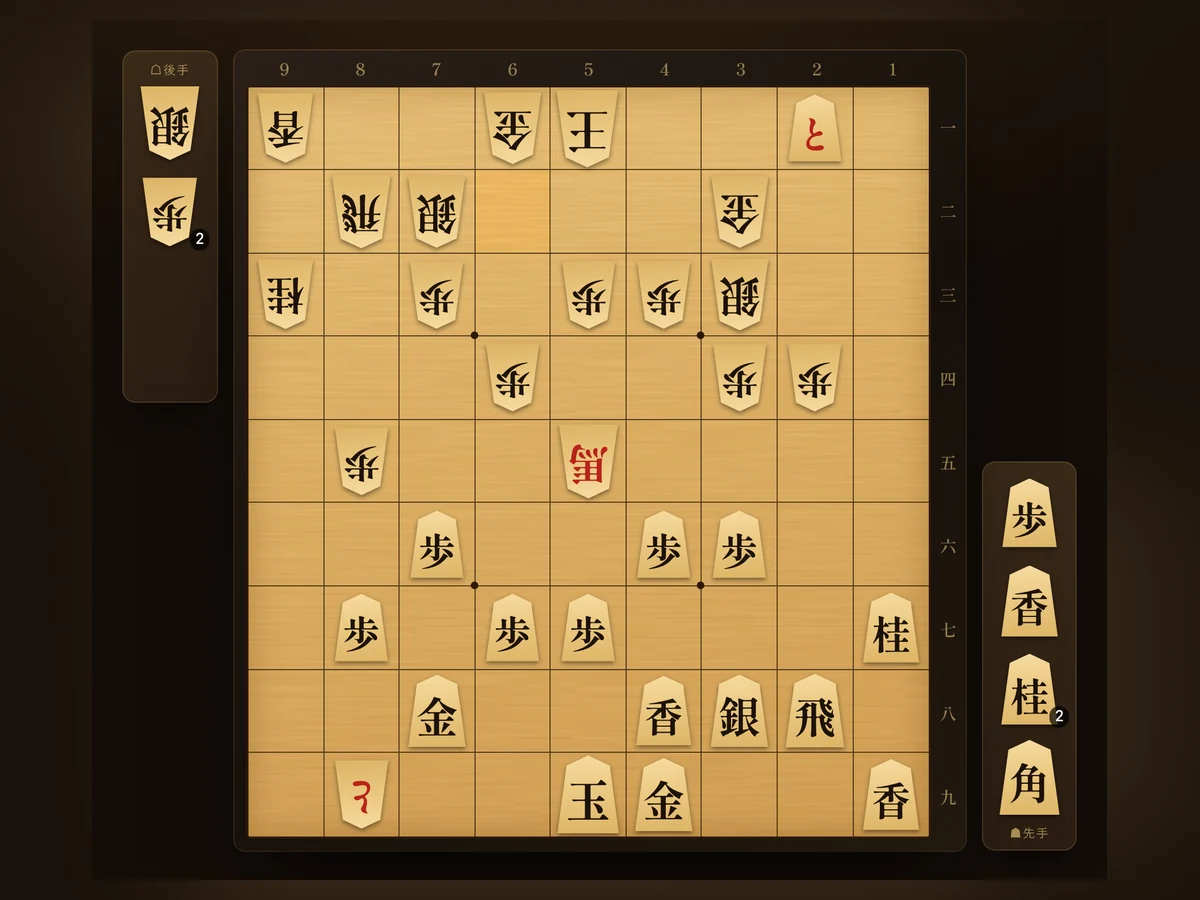
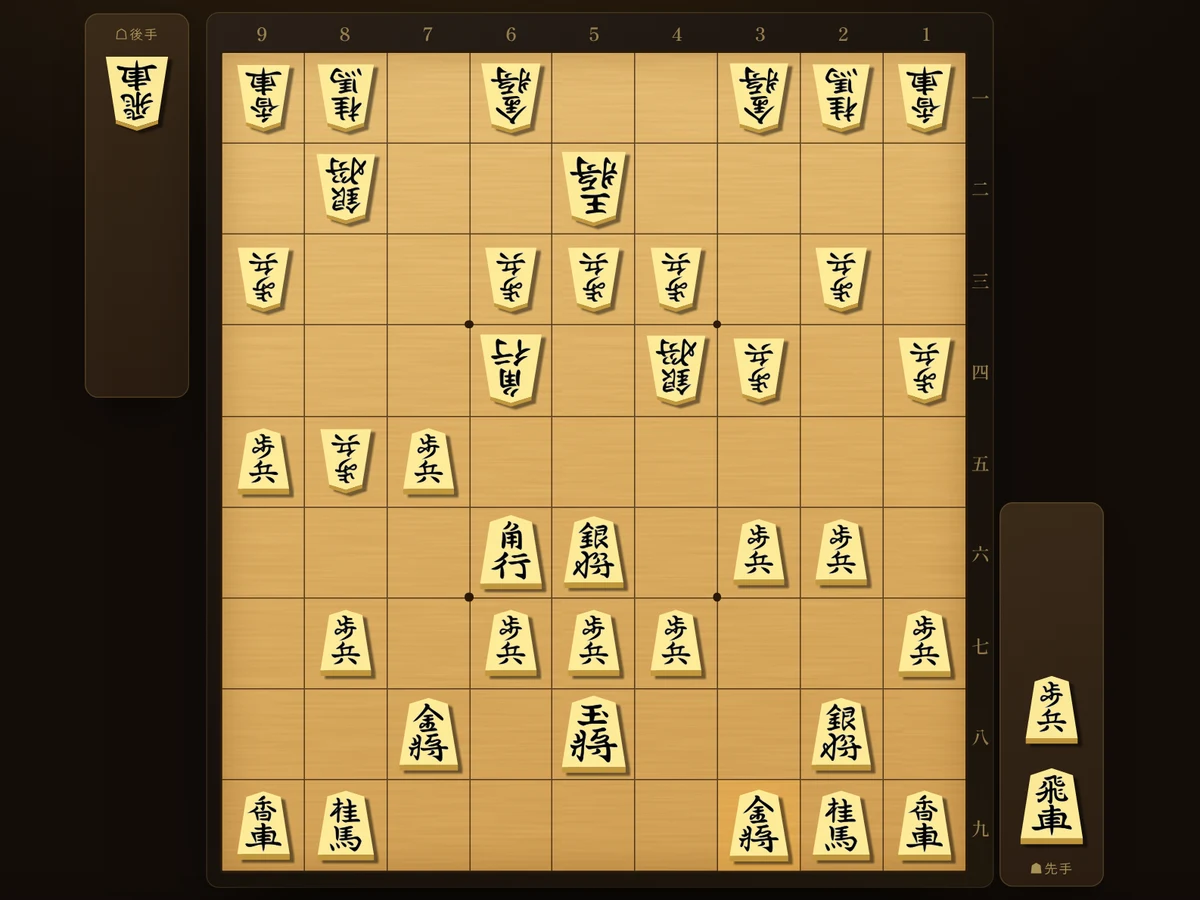
トップページの将棋SSを本格駒（立体）に更新
Claude-Session: https://claude.ai/code/session_01QEvVmvsXENgcMuEBFFuE8E

diff --git a/index.html b/index.html
@@ -574,8 +574,8 @@ html[lang=ar] :is(.btn, .play, .tag, .stat span, footer a, footer span, .logo sp
     <div class="gx reveal" id="gx">
       <article class="gx-panel" id="gx-panel" aria-labelledby="gx-title">
         <a class="gx-media" id="gx-media" href="./shogi/" tabindex="-1">
-          <img class="bg" id="gx-bg" src="./images/shogi.webp" alt="" aria-hidden="true" decoding="async">
-          <img class="shot" id="gx-shot" src="./images/shogi.webp" alt="将棋 SHOGI" decoding="async">
+          <img class="bg" id="gx-bg" src="./images/shogi.webp?v=2" alt="" aria-hidden="true" decoding="async">
+          <img class="shot" id="gx-shot" src="./images/shogi.webp?v=2" alt="将棋 SHOGI" decoding="async">
           <span class="gx-count" id="gx-count">01 / 11</span>
         </a>
         <div class="gx-info">
@@ -706,7 +706,7 @@ const I18N = {"ja": {"gx.modes": "モード", "gx.stages": "ステージ", "come
      facts   (optional) { ai, lessons, puzzles, players } shown as key figures
    ===================================================================== */
 const GAMES = [
-  { id:'shogi',      href:'./shogi/',         thumb:'images/shogi.webp',       icon:'images/icons/shogi.svg',       premium:true, cat:'chess',      kind:'BOARD GAME', key:'sh',   isNew:true,  tags:['ai','online','rated','daily','lessons','puzzles','openings','mobile'], facts:{ ai:19, lessons:15, puzzles:613, players:'1–2' } },
+  { id:'shogi',      href:'./shogi/',         thumb:'images/shogi.webp?v=2',       icon:'images/icons/shogi.svg',       premium:true, cat:'chess',      kind:'BOARD GAME', key:'sh',   isNew:true,  tags:['ai','online','rated','daily','lessons','puzzles','openings','mobile'], facts:{ ai:19, lessons:15, puzzles:613, players:'1–2' } },
   { id:'chess',      href:'./chess/',          thumb:'images/chess.webp',       icon:'images/icons/chess.svg',       premium:true, cat:'chess',      kind:'BOARD GAME', key:'cs',   isNew:true,  tags:['ai','online','rated','daily','lessons','puzzles','openings','mobile'], facts:{ ai:20, lessons:20, puzzles:445, players:'1–2' } },
   { id:'xiangqi',    href:'./xiangqi/',       thumb:'images/xiangqi.webp',     icon:'images/icons/xiangqi.svg',     premium:true, cat:'chess',     kind:'BOARD GAME', key:'xq',   isNew:true,  tags:['ai','online','rated','daily','lessons','puzzles','openings','mobile'], facts:{ ai:20, lessons:16, puzzles:543, players:'1–2' } },
   { id:'tafl',       href:'./tafl/',          thumb:'images/tafl.webp',        icon:'images/icons/tafl.svg',        premium:true, cat:'chess',     kind:'BOARD GAME', key:'tf',   isNew:true,  tags:['ai','online','rated','daily','lessons','puzzles','openings','variants','mobile'], facts:{ ai:20, lessons:16, puzzles:390, players:'1–2' } },
